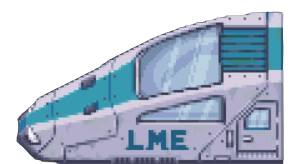
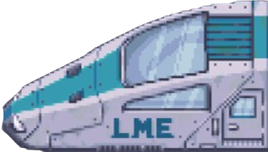
train size of png edited (how the with and height is better)

diff --git a/src/guiapplication/schedulePlanner/Simulator/TrainEntity.java b/src/guiapplication/schedulePlanner/Simulator/TrainEntity.java
@@ -35,7 +35,7 @@ public class TrainEntity {
         }
 
 
-        this.position = new Point2D.Double(30, yLocation);
+        this.position = new Point2D.Double(0, yLocation);
 
         try {
             this.trainWagon = ImageIO.read(Objects.requireNonNull(this.getClass().getResourceAsStream("/wagontrain.png")));
@@ -49,7 +49,7 @@ public class TrainEntity {
     public void update(){
         if (mapView.getClock().getCurrentTime().isAfter(journey.getArrivalTime().minusMinutes(10)) &&
                 mapView.getClock().getCurrentTime().isBefore(journey.getArrivalTime())){
-            position  = new Point2D.Double(position.getX() + 4, position.getY());
+            position = new Point2D.Double(position.getX() + 4, position.getY());
             draw = true;
         }
         else if (mapView.getClock().getCurrentTime().isAfter(journey.getDepartureTime())) {
@@ -62,16 +62,16 @@ public class TrainEntity {
         if (!draw) {
             return;
         }
-        g2d.setClip(0,0,3600,4000);
+        g2d.setClip(0,0,3584,4000);
         AffineTransform tx = new AffineTransform();
 
         tx.translate(position.getX(), position.getY());
         g2d.drawImage(trainHeadRight, tx, null);
 
-        tx.translate(trainHeadRight.getWidth() - 20,0);
+        tx.translate(trainHeadRight.getWidth(),-4);
         g2d.drawImage(trainWagon, tx, null);
 
-        tx.translate(trainWagon.getWidth() - 30,0);
+        tx.translate(trainWagon.getWidth(),2);
         g2d.drawImage(trainHeadLeft, tx, null);
         g2d.setClip(null);
     }
